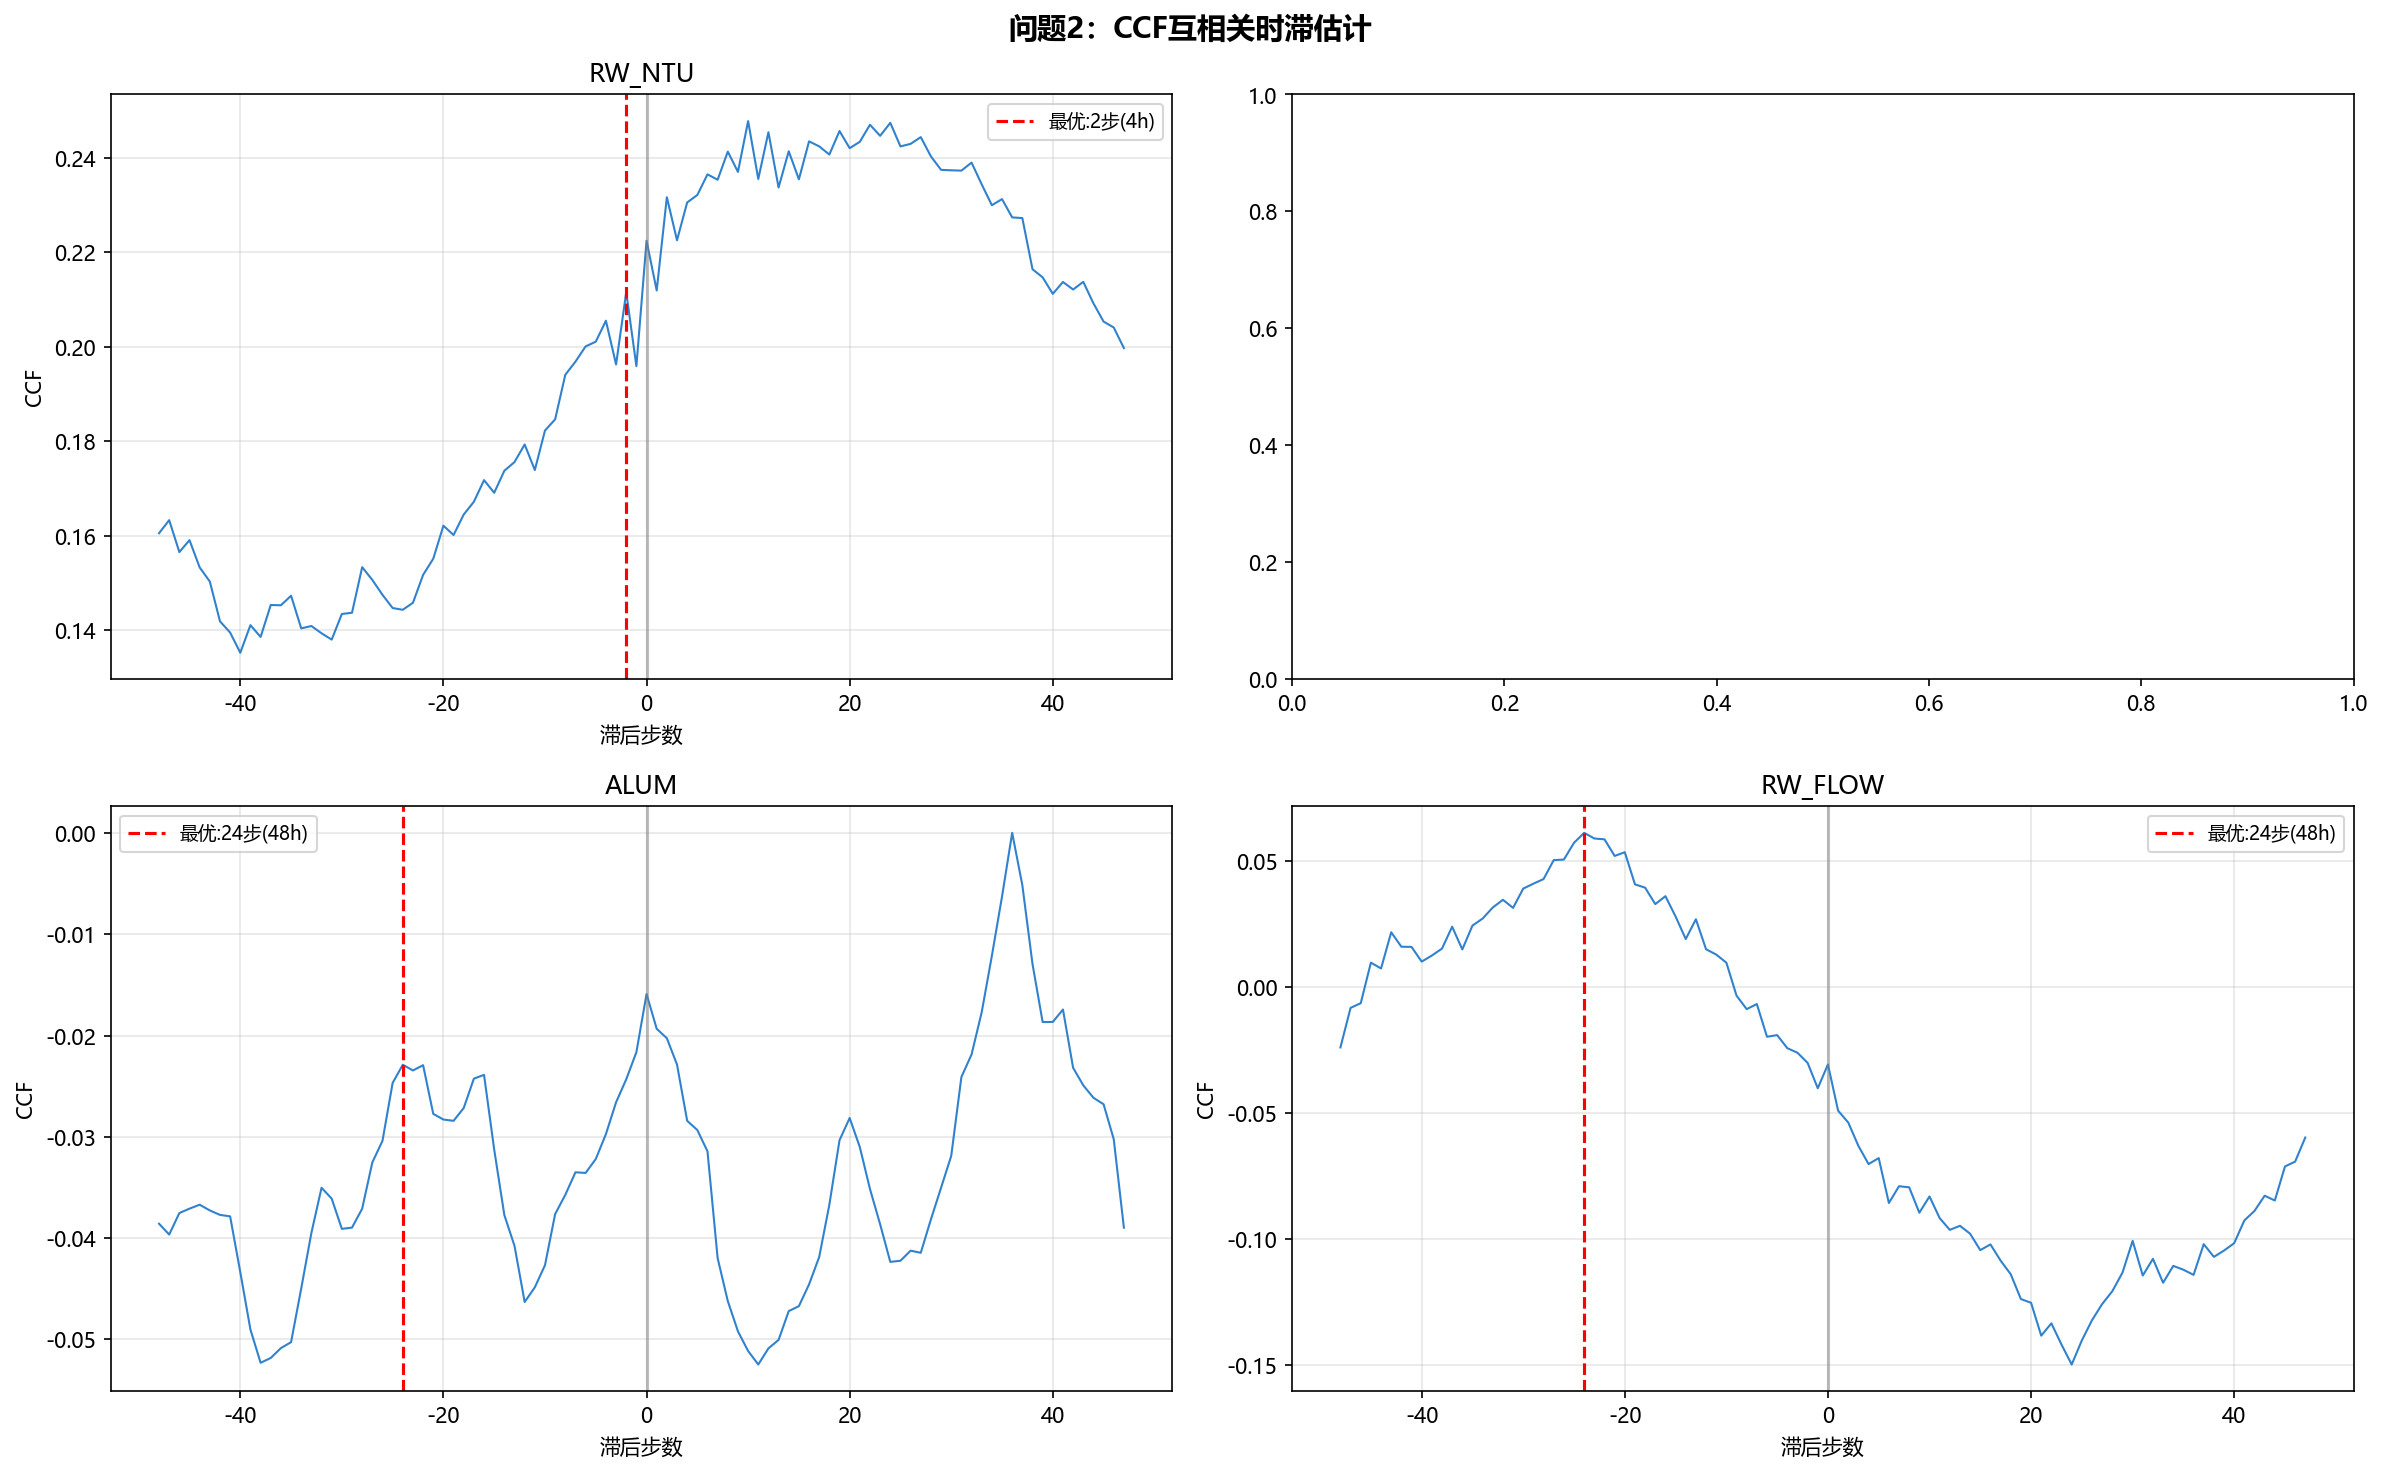
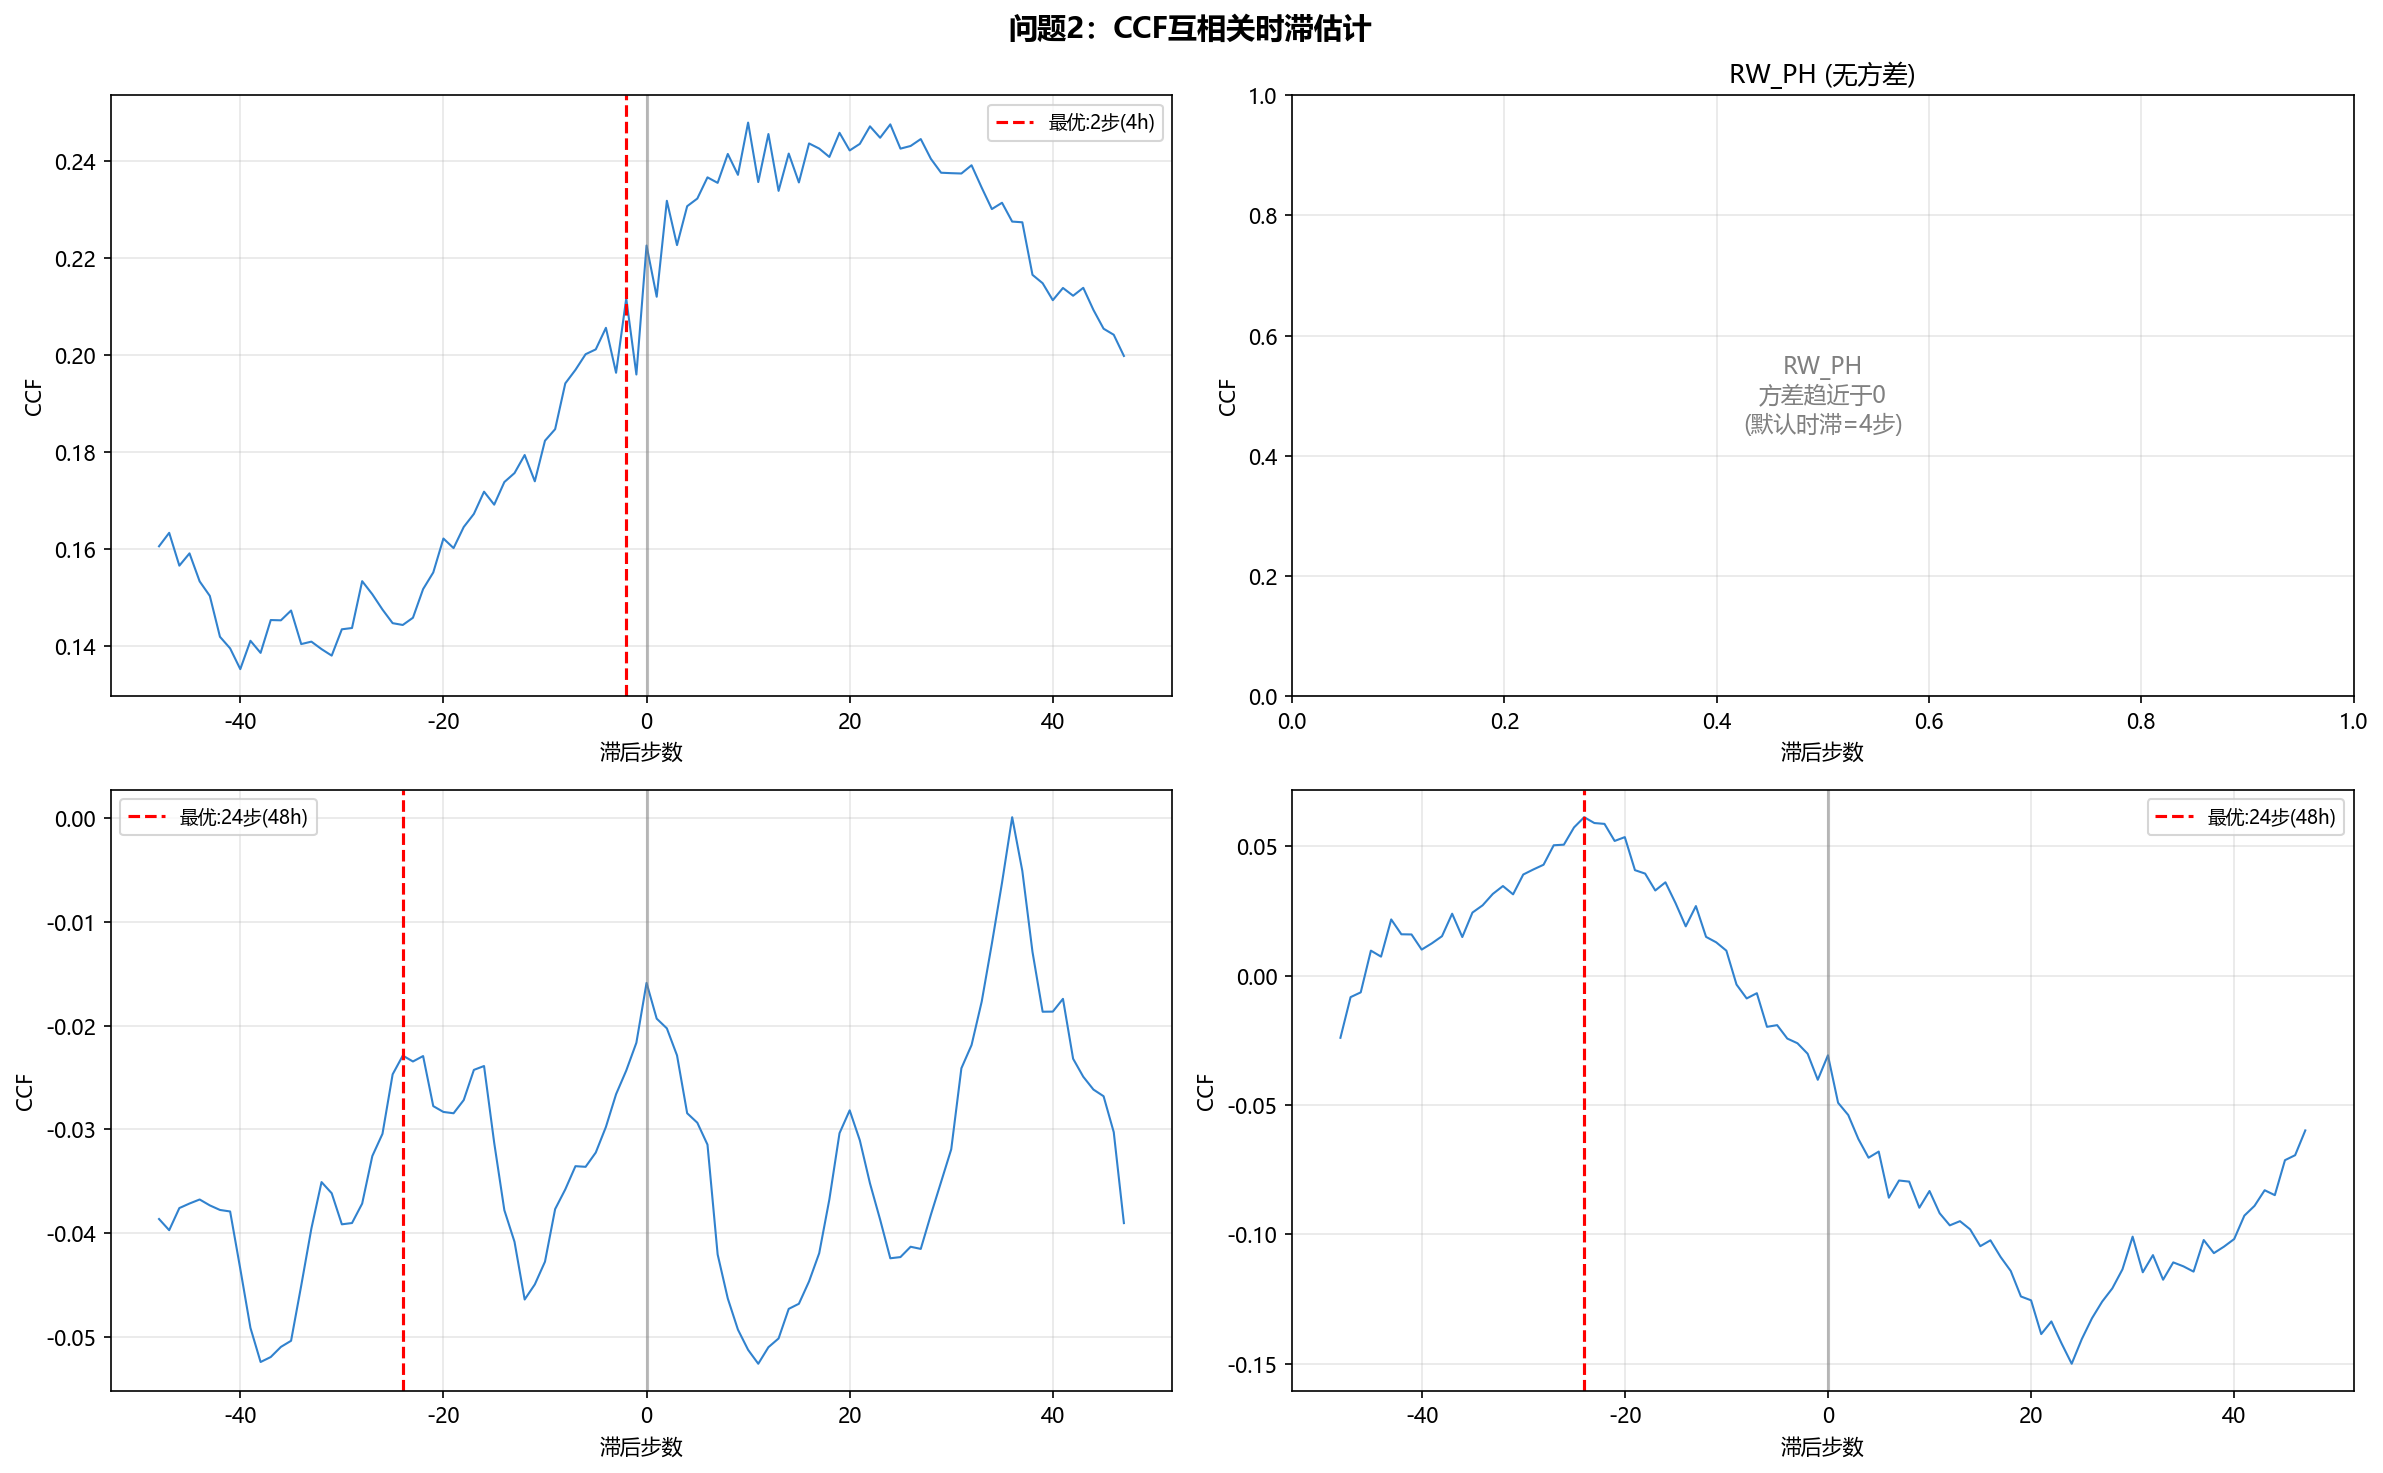
Fix charts: CCF empty subplot for zero-variance vars, calendar Feb 28-day boundary

diff --git a/trainingwork0/run_all_solvers.py b/trainingwork0/run_all_solvers.py
@@ -53,10 +53,15 @@ for idx,var in enumerate(INPUTS2):
     best_corr=usable_ccf[np.argmax(usable_ccf)] if len(usable_ccf)>0 else 0
     lag_estimates[var]=best_lag
     ax=axes_ccf[idx]
-    plot_range=slice(mid-max_lag_ccf,mid+max_lag_ccf); plot_lags=np.arange(-max_lag_ccf,max_lag_ccf)
-    ax.plot(plot_lags,ccf[plot_range],color='#3182CE',linewidth=1)
-    ax.axvline(x=-best_lag,color='red',linestyle='--',label=f'最优:{best_lag}步({best_lag*2}h)'); ax.axvline(x=0,color='gray',linestyle='-',alpha=0.5)
-    ax.set_xlabel('滞后步数'); ax.set_ylabel('CCF'); ax.set_title(f'{var}'); ax.legend(fontsize=9); ax.grid(True,alpha=0.3)
+    if xc.std()<1e-6 or yc.std()<1e-6:
+        ax.text(0.5,0.5,f'{var}\n方差趋近于0\n(默认时滞=4步)',ha='center',va='center',transform=ax.transAxes,fontsize=11,color='gray')
+        ax.set_title(f'{var} (无方差)')
+    else:
+        plot_range=slice(mid-max_lag_ccf,mid+max_lag_ccf); plot_lags=np.arange(-max_lag_ccf,max_lag_ccf)
+        ax.plot(plot_lags,ccf[plot_range],color='#3182CE',linewidth=1)
+        ax.axvline(x=-best_lag,color='red',linestyle='--',label=f'最优:{best_lag}步({best_lag*2}h)'); ax.axvline(x=0,color='gray',linestyle='-',alpha=0.5)
+        ax.legend(fontsize=9)
+    ax.set_xlabel('滞后步数'); ax.set_ylabel('CCF'); ax.grid(True,alpha=0.3)
     print(f"  {var}: CCF最优时滞={best_lag}步({best_lag*2}h)")
 fig_ccf.suptitle('问题2：CCF互相关时滞估计',fontsize=14,fontweight='bold')
 plt.tight_layout(); plt.savefig(os.path.join(out_dir,'p2_ccf_lag.png'),dpi=150,bbox_inches='tight'); plt.close()
@@ -266,15 +271,16 @@ risk_df.to_excel(os.path.join(out_dir,'problem4_risk_assessment.xlsx'),index=Fal
 
 # Problem 4 charts
 fig41,ax41=plt.subplots(figsize=(18,8))
-cal=np.full((3,31),-1.0)
+cal=np.full((3,31),np.nan)
 for i,d in enumerate(pd.date_range('2026-01-01','2026-03-31',freq='D')):
     mi,di=d.month-1,d.day-1; dk=d.date()
     match=risk_df[risk_df['日期']==dk]
     if len(match)>0:
         lm={'安全':0,'低风险':1,'中风险':2,'高风险':3}
         cal[mi,di]=lm[match.iloc[0]['风险等级']]
-cmap=plt.cm.RdYlGn_r; ax41.imshow(cal,aspect='auto',cmap=cmap,vmin=0,vmax=3)
-ax41.set_yticks([0,1,2]); ax41.set_yticklabels(['1月','2月','3月'],fontsize=11)
+cmap=plt.cm.RdYlGn_r; cmap.set_bad('white')
+ax41.imshow(cal,aspect='auto',cmap=cmap,vmin=0,vmax=3)
+ax41.set_yticks([0,1,2]); ax41.set_yticklabels(['1月(31天)','2月(28天)','3月(31天)'],fontsize=11)
 ax41.set_xticks(range(0,31,2)); ax41.set_xticklabels([str(i+1) for i in range(0,31,2)],fontsize=9)
 ax41.set_title('问题4：2026年1-3月水质风险日历',fontsize=14,fontweight='bold')
 from matplotlib.patches import Patch